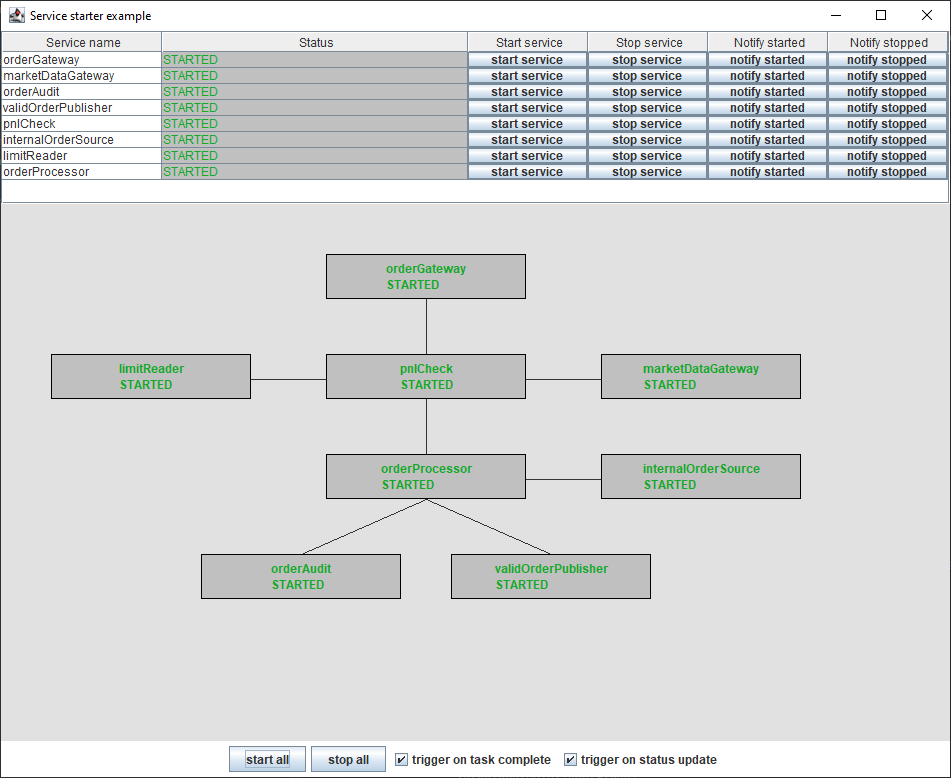
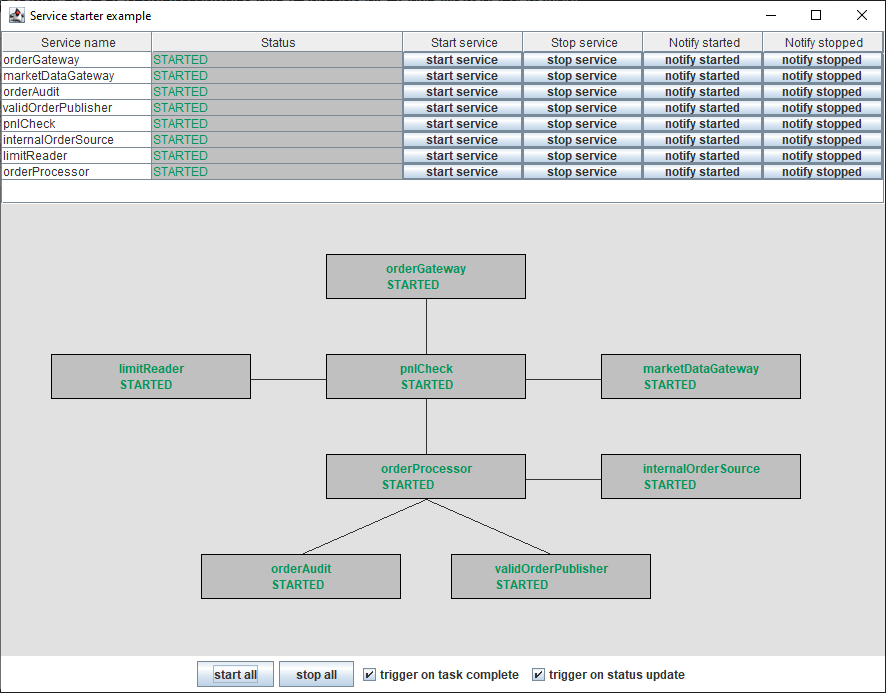
updated image capture

diff --git a/src/main/java/com/fluxtion/example/servicestarter/example1/gui/ServiceManagaerFrame.java b/src/main/java/com/fluxtion/example/servicestarter/example1/gui/ServiceManagaerFrame.java
@@ -208,7 +208,7 @@ public class ServiceManagaerFrame {
             JLabel jComponent = nodeMap.get(serviceStatusRecord.getServiceName());
             jComponent.setText("<html>" + serviceStatusRecord.getServiceName() + "<br>" + serviceStatusRecord.getStatus() + "</html>");
             if (serviceStatusRecord.getStatus() == Service.Status.STARTED) {
-                Color green = new Color(20, 170, 40);
+                Color green = new Color(0, 150, 90);
                 cell.setForeground(green);
                 jComponent.setForeground(green);
             } else if (serviceStatusRecord.getStatus() == Service.Status.STOPPED) {
